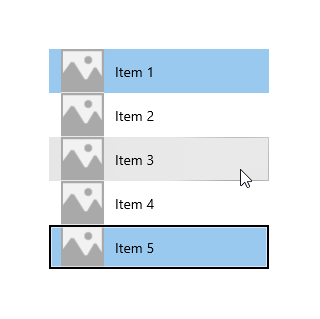
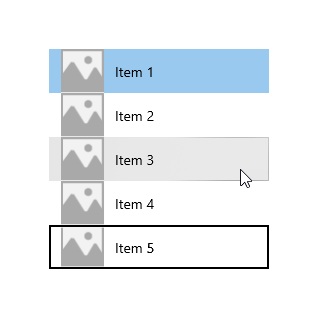
1687760, incorporated SME feedback.

Changed region(s): [[0.3125, 0.7053, 0.8438, 0.8464], [0.1562, 0.7053, 0.1875, 0.8464]]

diff --git a/windows-apps-src/design/controls-and-patterns/item-containers-templates.md b/windows-apps-src/design/controls-and-patterns/item-containers-templates.md
@@ -307,7 +307,7 @@ An item’s control template contains the visuals that display state, like selec
 
 - Hover – A light gray rectangle drawn below the data template.  
 - Selection – A light blue rectangle drawn below the data template. 
-- Keyboard focus– A light blue rectangle with a solid black border drown on top of the item template.
+- Keyboard focus– A black and white dotted border drown on top of the item template. 
 
 ![List view state visuals](images/listview-state-visuals.png)
 
